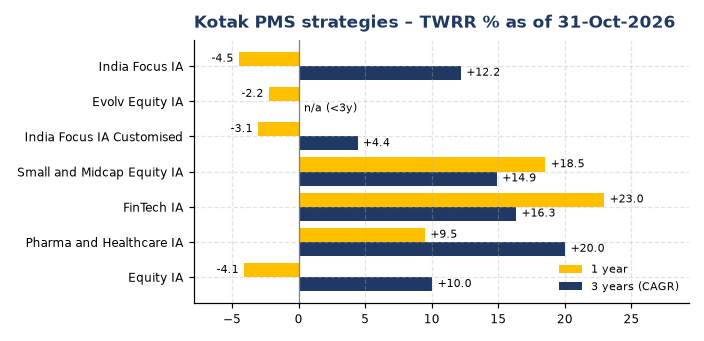
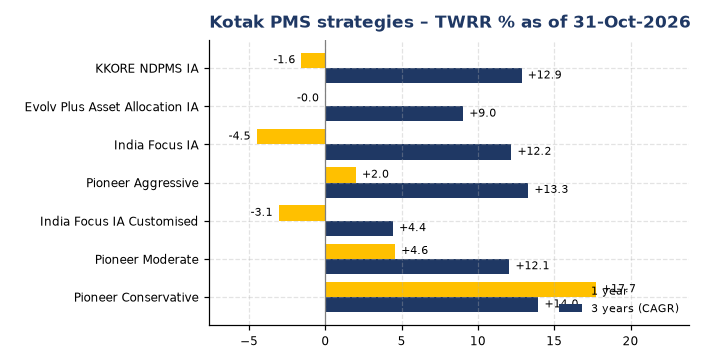
Latest snapshot: PMS Sep-26 league + peer block

Changed region(s): [[0.0312, 0.1173, 1.0, 0.9677], [0.25, 0.0293, 1.0, 0.088]]

diff --git a/latest.html b/latest.html
@@ -29,11 +29,11 @@ tr.kotak td{background:#FFF1F1;font-weight:700}tr.tot td{font-weight:800;border-
 .callout{background:#FFF8E1;border-left:5px solid #FFC000;border-radius:8px;padding:10px 14px;font-size:13.5px;margin-top:12px}
 .gaps{background:#fff;border-left:5px solid #2E75B6;border-radius:10px;padding:12px 18px;font-size:13px;margin-top:22px}.gaps li{margin:4px 0}
 footer{font-size:12px;color:#666;text-align:center;padding:4px 16px 24px}
-@page{size:A3 landscape;margin:8mm}html,body{-webkit-print-color-adjust:exact;print-color-adjust:exact}@media print{nav.topnav{position:static;box-shadow:none}.kpis,.gaps,.card{break-inside:avoid}h2.sec{break-after:avoid}}</style></head><body><nav class="topnav" aria-label="Dashboards"><a class="home" href="index.html">&#8962; Full AMFI hub</a><a class="pill" href="main_dashboard.html">Main MF dashboard</a><a class="pill" href="pms/">PMS (APMI) hub</a><a class="pill" href="pms/kotak.html">Kotak PMS</a><a class="pill" href="direct_bifurcation.html">Direct plans</a><a class="pill" href="amc_league.html">AMC league</a><span class="sp"></span><a class="pill cur" href="latest.html" aria-current="page">Latest snapshot</a></nav>
+@page{size:A3 landscape;margin:8mm}html,body{-webkit-print-color-adjust:exact;print-color-adjust:exact}@media print{nav.topnav{position:static;box-shadow:none}.kpis,.gaps,.card{break-inside:avoid}h2.sec{break-after:avoid}}</style></head><body><nav class="topnav" aria-label="Dashboards"><a class="home" href="index.html">&#8962; Full AMFI hub</a><a class="pill" href="main_dashboard.html">Main MF dashboard</a><a class="pill" href="pms/">PMS (APMI) hub</a><a class="pill" href="pms/kotak.html">Kotak PMS</a><a class="pill" href="pms/peers.html">PMS peer set</a><a class="pill" href="direct_bifurcation.html">Direct plans</a><a class="pill" href="amc_league.html">AMC league</a><span class="sp"></span><a class="pill cur" href="latest.html" aria-current="page">Latest snapshot</a></nav>
 <header><h1>Latest snapshot: Mutual funds &amp; PMS on one page</h1>
 <div class="sub">MF data to Oct-26 (AMFI) · Kotak AMC share to Jul-Sep 2026 · Direct plans to Oct-26 · PMS industry to Sep-26 (APMI/SEBI) · PMS league to Mar-26 · Kotak PMS returns to 31-Oct-2026</div></header>
 <div class="wrap">
-<div class="kpis"><div class="kpi"><div class="kl">MF industry AUM</div><div class="kv">₹83.39 L cr</div><div class="kc"><span class="chg up">+₹0.75 L cr</span> <span class="vs">vs Sep-26 (+0.9%)</span></div><div class="ks">Month-end, Oct-26 · AMFI</div></div><div class="kpi"><div class="kl">MF net flows</div><div class="kv">+₹1,73,840 cr</div><div class="kc"><span class="vs">Sep-26: −₹1,33,376 cr</span></div><div class="ks">All schemes, Oct-26 · AMFI</div></div><div class="kpi"><div class="kl">Equity net inflow</div><div class="kv">₹32,994 cr</div><div class="kc"><span class="chg dn">−₹5,313 cr</span> <span class="vs">(-14%)</span></div><div class="ks">Open-ended equity, Oct-26</div></div><div class="kpi"><div class="kl">SIP contribution <span class="flag">PRESS</span></div><div class="kv">₹32,160 cr</div><div class="kc"><span class="chg dn">−₹330 cr</span> <span class="vs">vs Sep-26</span></div><div class="ks">Oct-26 · press-sourced</div></div><div class="kpi"><div class="kl">Kotak AMC share</div><div class="kv">7.04% · #5</div><div class="kc"><span class="chg dn">-0.06 pp</span> <span class="vs">rank <span class="chg flat">no change</span></span></div><div class="ks">QAAUM Jul-Sep 2026 · AMFI</div></div><div class="kpi"><div class="kl">PMS industry AUM</div><div class="kv">₹44.46 L cr</div><div class="kc"><span class="chg up">+₹0.12 L cr</span> <span class="vs">vs Aug-26 (+0.3%)</span></div><div class="ks">Sep-26 · APMI/SEBI · 72% EPFO/PF</div></div><div class="kpi"><div class="kl">Kotak PMS</div><div class="kv">#5 · ₹45,807 cr</div><div class="kc"><span class="chg dn">−₹7,167 cr</span> <span class="vs">vs Dec-25 (rank #5)</span></div><div class="ks">Mar-26 · APMI PMS-level · 1,469 clients</div></div></div>
+<div class="kpis"><div class="kpi"><div class="kl">MF industry AUM</div><div class="kv">₹83.39 L cr</div><div class="kc"><span class="chg up">+₹0.75 L cr</span> <span class="vs">vs Sep-26 (+0.9%)</span></div><div class="ks">Month-end, Oct-26 · AMFI</div></div><div class="kpi"><div class="kl">MF net flows</div><div class="kv">+₹1,73,840 cr</div><div class="kc"><span class="vs">Sep-26: −₹1,33,376 cr</span></div><div class="ks">All schemes, Oct-26 · AMFI</div></div><div class="kpi"><div class="kl">Equity net inflow</div><div class="kv">₹32,994 cr</div><div class="kc"><span class="chg dn">−₹5,313 cr</span> <span class="vs">(-14%)</span></div><div class="ks">Open-ended equity, Oct-26</div></div><div class="kpi"><div class="kl">SIP contribution <span class="flag">PRESS</span></div><div class="kv">₹32,160 cr</div><div class="kc"><span class="chg dn">−₹330 cr</span> <span class="vs">vs Sep-26</span></div><div class="ks">Oct-26 · press-sourced</div></div><div class="kpi"><div class="kl">Kotak AMC share</div><div class="kv">7.04% · #5</div><div class="kc"><span class="chg dn">-0.06 pp</span> <span class="vs">rank <span class="chg flat">no change</span></span></div><div class="ks">QAAUM Jul-Sep 2026 · AMFI</div></div><div class="kpi"><div class="kl">PMS industry AUM</div><div class="kv">₹44.46 L cr</div><div class="kc"><span class="chg up">+₹0.12 L cr</span> <span class="vs">vs Aug-26 (+0.3%)</span></div><div class="ks">Sep-26 · APMI/SEBI · 72% EPFO/PF</div></div><div class="kpi"><div class="kl">Kotak PMS</div><div class="kv">#7 · ₹44,834 cr</div><div class="kc"><span class="chg dn">−₹3,278 cr</span> <span class="vs">vs Jun-26 (rank #8)</span></div><div class="ks">Sep-26 · APMI PMS-level · 1,511 clients</div></div></div>
 
 <h2 class="sec">Mutual funds – Oct-26 vs Sep-26 <a href="main_dashboard.html">Open main MF dashboard &rsaquo;</a></h2>
 <div class="g2">
@@ -71,19 +71,28 @@ footer{font-size:12px;color:#666;text-align:center;padding:4px 16px 24px}
 <div class="card"><h3>PMS AUM trend by service type</h3><img src="charts/latest_pms_segments.png" alt="PMS AUM by segment"><div class=src>Source: APMI. Discretionary is dominated by EPFO/PF mandates.</div></div>
 </div>
 <div class="g2" style="margin-top:16px">
-<div class="card"><h3>PMS league – top 8 by AUM (Mar-26, Kotak highlighted)</h3><table><tr><th class="n">#</th><th>Portfolio manager</th><th class="n">AUM Dec-25</th><th class="n">AUM Mar-26</th><th class="n">QoQ</th><th class="n">Clients</th></tr><tr><td class="n">1</td><td>Sbi Funds Management Limited</td><td class="n">₹16,22,385 cr</td><td class="n b">₹16,46,202 cr</td><td class="n">+1.5%</td><td class="n">1,656</td></tr><tr><td class="n">2</td><td>Uti Asset Management Company Pvt Ltd</td><td class="n">₹14,90,600 cr</td><td class="n b">₹15,31,939 cr</td><td class="n">+2.8%</td><td class="n">4</td></tr><tr><td class="n">3</td><td>Darashaw &amp; Company Ltd</td><td class="n">₹1,46,691 cr</td><td class="n b">₹1,54,358 cr</td><td class="n">+5.2%</td><td class="n">258</td></tr><tr><td class="n">4</td><td>Nippon Life India Asset Management Limited</td><td class="n">₹88,218 cr</td><td class="n b">₹88,460 cr</td><td class="n">+0.3%</td><td class="n">1,004</td></tr><tr class=kotak><td class="n">5</td><td>Kotak Mahindra Asset Management Company Ltd</td><td class="n">₹52,974 cr</td><td class="n b">₹45,807 cr</td><td class="n">-13.5%</td><td class="n">1,469</td></tr><tr><td class="n">6</td><td>Enam Asset Management Co.Pvt.Ltd</td><td class="n">₹43,879 cr</td><td class="n b">₹36,976 cr</td><td class="n">-15.7%</td><td class="n">1,534</td></tr><tr><td class="n">7</td><td>360 One Portfolio Managers Limited</td><td class="n">₹36,737 cr</td><td class="n b">₹34,177 cr</td><td class="n">-7.0%</td><td class="n">2,091</td></tr><tr><td class="n">8</td><td>Birla Sun Life Asset Management Company Limited</td><td class="n">₹30,245 cr</td><td class="n b">₹32,067 cr</td><td class="n">+6.0%</td><td class="n">2,513</td></tr></table><div class="callout"><b>Kotak PMS:</b> #5 at ₹45,807 cr and 1,469 clients in Mar-26, vs ₹52,974 cr and 1,523 clients in Dec-25 (rank #5).</div><div class=src>Source: APMI "AUM &amp; client count – PMS level" FY2025-26 (latest quarter Mar-26). Top two are EPFO mandates.</div></div>
+<div class="card"><h3>PMS league – top 8 by AUM (Sep-26, Kotak highlighted)</h3><table><tr><th class="n">#</th><th>Portfolio manager</th><th class="n">AUM Jun-26</th><th class="n">AUM Sep-26</th><th class="n">QoQ</th><th class="n">Clients</th></tr><tr><td class="n">1</td><td>Sbi Funds Management Limited</td><td class="n">₹14,61,877 cr</td><td class="n b">₹12,96,482 cr</td><td class="n">-11.3%</td><td class="n">1,981</td></tr><tr><td class="n">2</td><td>Uti Asset Management Company Pvt Ltd</td><td class="n">₹12,15,162 cr</td><td class="n b">₹7,73,975 cr</td><td class="n">-36.3%</td><td class="n">4</td></tr><tr><td class="n">3</td><td>Hdfc Asset Management Company Limited</td><td class="n">₹12,175 cr</td><td class="n b">₹6,86,873 cr</td><td class="n">+5541.5%</td><td class="n">245</td></tr><tr><td class="n">4</td><td>Aditya Birla Sun Life Amc Limited</td><td class="n">₹6,41,364 cr</td><td class="n b">₹6,63,424 cr</td><td class="n">+3.4%</td><td class="n">2,546</td></tr><tr><td class="n">5</td><td>Darashaw &amp; Company Ltd</td><td class="n">₹1,40,377 cr</td><td class="n b">₹1,59,890 cr</td><td class="n">+13.9%</td><td class="n">252</td></tr><tr><td class="n">6</td><td>Nippon Life India Asset Management Limited</td><td class="n">₹91,287 cr</td><td class="n b">₹93,621 cr</td><td class="n">+2.6%</td><td class="n">875</td></tr><tr class=kotak><td class="n">7</td><td>Kotak Mahindra Asset Management Company Ltd</td><td class="n">₹48,113 cr</td><td class="n b">₹44,834 cr</td><td class="n">-6.8%</td><td class="n">1,511</td></tr><tr><td class="n">8</td><td>Enam Asset Management Co.Pvt.Ltd</td><td class="n">₹42,465 cr</td><td class="n b">₹42,000 cr</td><td class="n">-1.1%</td><td class="n">1,499</td></tr></table><div class="callout"><b>Kotak PMS:</b> #7 at ₹44,834 cr and 1,511 clients in Sep-26, vs ₹48,113 cr and 1,486 clients in Jun-26 (rank #8). #3 excluding EPFO-linked SBI/UTI/ABSL/HDFC.</div><div class=src>Source: APMI "AUM &amp; client count – PMS level" FY2026-27 (latest quarter Sep-26). SBI, UTI, HDFC and ABSL are dominated by EPFO/PF mandates.</div></div>
 <div class="card"><h3>Kotak PMS strategy returns</h3><img src="charts/latest_kotak_pms_strategies.png" alt="Kotak PMS strategies"><div class=src>Source: APMI IA performance (IaInsight) pages; TWRR as of 31-Oct-2026; 3y/5y annualised. Strategy AUM is as reported to APMI.</div></div>
 </div>
 <div class="card" style="margin-top:16px"><h3>Kotak PMS strategies – detail (TWRR %, as of 31-Oct-2026)</h3>
-<table><tr><th>Investment approach</th><th class="n">AUM</th><th class="n">1M</th><th class="n">1Y</th><th class="n">3Y</th><th class="n">5Y</th><th class="n">Since inception</th></tr><tr><td>Kotak India Focus Portfolio Investment Approach</td><td class="n">₹766 cr</td><td class="n">-4.67%</td><td class="n">-4.50%</td><td class="n">+12.19%</td><td class="n">+10.25%</td><td class="n">+14.00%</td></tr><tr><td>Kotak Evolv Equity Investment Approach</td><td class="n">₹47.74 cr</td><td class="n">-6.83%</td><td class="n">-2.25%</td><td class="n">n/a</td><td class="n">n/a</td><td class="n">+0.57%</td></tr><tr><td>Kotak India Focus Portfolio Investment Approach Customised</td><td class="n">₹46.64 cr</td><td class="n">-2.85%</td><td class="n">-3.06%</td><td class="n">+4.43%</td><td class="n">+7.04%</td><td class="n">+7.95%</td></tr><tr><td>Kotak Small and Midcap Equity Investment Approach</td><td class="n">₹38.78 cr</td><td class="n">+3.14%</td><td class="n">+18.53%</td><td class="n">+14.89%</td><td class="n">+15.86%</td><td class="n">+15.77%</td></tr><tr><td>Kotak FinTech Investment Approach</td><td class="n">₹15.36 cr</td><td class="n">-0.09%</td><td class="n">+22.96%</td><td class="n">+16.34%</td><td class="n">+12.99%</td><td class="n">+13.54%</td></tr><tr><td>Kotak Pharma and Healthcare Investment Approach</td><td class="n">₹13.27 cr</td><td class="n">+6.87%</td><td class="n">+9.49%</td><td class="n">+20.03%</td><td class="n">+13.47%</td><td class="n">+12.14%</td></tr><tr><td>Kotak Equity Portfolio Investment Approach</td><td class="n">₹0.93 cr</td><td class="n">-3.27%</td><td class="n">-4.11%</td><td class="n">+10.04%</td><td class="n">n/a</td><td class="n">+11.97%</td></tr></table>
-<div class="src">Source: APMI IaInsight pages (IAIDs 553, 1674, 565, 561, 567, 558, 569). n/a = strategy younger than the period.</div></div>
+<table><tr><th>Investment approach</th><th class="n">AUM</th><th class="n">1M</th><th class="n">1Y</th><th class="n">3Y</th><th class="n">5Y</th><th class="n">Since inception</th></tr><tr><td>Kotak KKORE NDPMS Investment Approach</td><td class="n">₹4,378 cr</td><td class="n">-2.10%</td><td class="n">-1.57%</td><td class="n">+12.86%</td><td class="n">+10.12%</td><td class="n">+12.59%</td></tr><tr><td>Kotak Evolv Plus Asset Allocation Investment Approach</td><td class="n">₹985 cr</td><td class="n">-1.17%</td><td class="n">-0.02%</td><td class="n">+9.03%</td><td class="n">n/a</td><td class="n">+8.39%</td></tr><tr><td>Kotak India Focus Portfolio Investment Approach</td><td class="n">₹766 cr</td><td class="n">-4.67%</td><td class="n">-4.50%</td><td class="n">+12.19%</td><td class="n">+10.25%</td><td class="n">+14.00%</td></tr><tr><td>Kotak Evolv Multi Asset NDPMS Investment Approach</td><td class="n">₹557 cr</td><td class="n">-3.04%</td><td class="n">n/a</td><td class="n">n/a</td><td class="n">n/a</td><td class="n">-2.73%</td></tr><tr><td>Kotak Pioneer Model Strategy Investment Approach Aggressive</td><td class="n">₹119 cr</td><td class="n">-2.52%</td><td class="n">+2.00%</td><td class="n">+13.30%</td><td class="n">n/a</td><td class="n">+12.95%</td></tr><tr><td>Kotak India Focus Portfolio Investment Approach Customised</td><td class="n">₹46.64 cr</td><td class="n">-2.85%</td><td class="n">-3.06%</td><td class="n">+4.43%</td><td class="n">+7.04%</td><td class="n">+7.95%</td></tr><tr><td>Kotak Pioneer Model Strategy Investment Approach Moderate</td><td class="n">₹30.09 cr</td><td class="n">-1.69%</td><td class="n">+4.57%</td><td class="n">+12.06%</td><td class="n">n/a</td><td class="n">+11.32%</td></tr><tr><td>Kotak Pioneer Model Strategy Investment Approach Conservative</td><td class="n">₹13.80 cr</td><td class="n">-0.87%</td><td class="n">+17.73%</td><td class="n">+13.96%</td><td class="n">n/a</td><td class="n">+11.95%</td></tr><tr><td>Kotak Evolv Liquid Investment Approach</td><td class="n">₹8.31 cr</td><td class="n">+0.50%</td><td class="n">+5.84%</td><td class="n">+6.48%</td><td class="n">n/a</td><td class="n">+6.58%</td></tr><tr><td>Kotak Evolv Equity NDPMS Investment Approach</td><td class="n">₹7.58 cr</td><td class="n">+0.06%</td><td class="n">n/a</td><td class="n">n/a</td><td class="n">n/a</td><td class="n">+1.01%</td></tr><tr><td>Kotak Evolv Liquid NDPMS Investment Approach</td><td class="n">₹4.94 cr</td><td class="n">+0.48%</td><td class="n">n/a</td><td class="n">n/a</td><td class="n">n/a</td><td class="n">+2.09%</td></tr><tr><td>Kotak Liquid Investment Approach</td><td class="n">₹1.87 cr</td><td class="n">+0.45%</td><td class="n">+5.95%</td><td class="n">+6.44%</td><td class="n">n/a</td><td class="n">+6.49%</td></tr><tr><td>Kotak Equity Portfolio Investment Approach</td><td class="n">₹0.93 cr</td><td class="n">-3.27%</td><td class="n">-4.11%</td><td class="n">+10.04%</td><td class="n">n/a</td><td class="n">+11.97%</td></tr></table>
+<div class="src">Source: APMI IA performance table, as on 31-Oct-2026 (all 13 Kotak IAs). n/a = not reported / strategy younger than the period.</div></div>
+<div class="g2" style="margin-top:16px">
+<div class="card"><h3>PMS peer set – strategy AUM (Oct-26) vs aggregate AUM (Sep-26)</h3>
+<table><tr><th>Brand</th><th class="n">Strategy AUM Oct-26</th><th class="n"># IAs</th><th class="n">Aggregate AUM Sep-26</th><th class="n">Clients</th></tr><tr><td>360 ONE</td><td class="n">₹57,675 cr</td><td class="n">44</td><td class="n">₹64,840 cr</td><td class="n">6,824</td></tr><tr><td>Enam</td><td class="n">₹34,616 cr</td><td class="n">7</td><td class="n">₹42,000 cr</td><td class="n">1,499</td></tr><tr><td>ICICI Prudential AMC</td><td class="n">₹29,148 cr</td><td class="n">27</td><td class="n">₹30,145 cr</td><td class="n">30,807</td></tr><tr><td>Motilal Oswal</td><td class="n">₹21,880 cr</td><td class="n">47</td><td class="n">₹23,519 cr</td><td class="n">14,252</td></tr><tr><td>Abakkus</td><td class="n">₹21,485 cr</td><td class="n">16</td><td class="n">₹22,333 cr</td><td class="n">12,173</td></tr><tr><td>Valuequest</td><td class="n">₹17,854 cr</td><td class="n">5</td><td class="n">₹19,285 cr</td><td class="n">1,824</td></tr><tr><td>Quantum</td><td class="n">₹16,125 cr</td><td class="n">12</td><td class="n">₹15,918 cr</td><td class="n">14</td></tr><tr><td>Axis AMC</td><td class="n">₹15,150 cr</td><td class="n">26</td><td class="n">₹15,297 cr</td><td class="n">3,750</td></tr><tr><td>Unifi</td><td class="n">₹14,817 cr</td><td class="n">16</td><td class="n">₹15,863 cr</td><td class="n">7,689</td></tr><tr><td>ASK</td><td class="n">₹14,191 cr</td><td class="n">39</td><td class="n">₹14,960 cr</td><td class="n">6,968</td></tr><tr class=kotak><td>Kotak Mahindra AMC</td><td class="n">₹6,918 cr</td><td class="n">13</td><td class="n">₹44,834 cr</td><td class="n">1,511</td></tr></table>
+<div class="callout"><b>Kotak:</b> #21 of 381 PMS by strategy AUM (₹6,918 cr, 13 IAs); #7 by APMI aggregate AUM incl. advisory/mandates.</div>
+<div class="src">Source: APMI Insights (Oct-2026); APMI PMS-level FY26-27 (30-Sep-2026). Top 10 of 20 named peers by strategy AUM. <a href="pms/peers.html">Full peer set &rsaquo;</a></div></div>
+<div class="card"><h3>Kotak strategies vs APMI category peers (31-Oct-2026)</h3>
+<table><tr><th>Kotak IA · category</th><th class="n">AUM</th><th class="n">1Y</th><th class="n">3Y</th><th class="n">5Y</th></tr><tr><td style="min-width:230px">KKORE NDPMS<div class=vs>Equity NDPMS · BSE 500 TRI · N=67</div></td><td class="n">₹4,378 cr</td><td class="n"><b>-1.57%</b><br><span class=vs>#19/53<br>med -3.41%</span></td><td class="n"><b>+12.86%</b><br><span class=vs>#9/35<br>med +8.99%</span></td><td class="n"><b>+10.12%</b><br><span class=vs>#5/20<br>med +7.55%</span></td></tr><tr><td style="min-width:230px">Evolv Plus Asset Allocation<div class=vs>Multi Asset DPMS · NSE Multi Asset Index 1 · N=63</div></td><td class="n">₹985 cr</td><td class="n"><b>-0.02%</b><br><span class=vs>#20/51<br>med -1.12%</span></td><td class="n"><b>+9.03%</b><br><span class=vs>#29/37<br>med +10.54%</span></td><td class="n">—</td></tr><tr><td style="min-width:230px">India Focus Portfolio<div class=vs>Equity DPMS · Nifty 50 TRI · N=360</div></td><td class="n">₹766 cr</td><td class="n"><b>-4.50%</b><br><span class=vs>#145/315<br>med -4.73%</span></td><td class="n"><b>+12.19%</b><br><span class=vs>#44/222<br>med +8.37%</span></td><td class="n"><b>+10.25%</b><br><span class=vs>#39/167<br>med +7.21%</span></td></tr><tr><td style="min-width:230px">Pioneer Model Strategy Aggressive<div class=vs>Multi Asset DPMS · NSE Multi Asset Index 1 · N=63</div></td><td class="n">₹119 cr</td><td class="n"><b>+2.00%</b><br><span class=vs>#12/51<br>med -1.12%</span></td><td class="n"><b>+13.30%</b><br><span class=vs>#8/37<br>med +10.54%</span></td><td class="n">—</td></tr></table>
+<div class="src">Rank = position among IAs in the same APMI strategy type, service type and benchmark; med = category median. TWRR, &gt;1Y annualised. Source: APMI IA performance table. <a href="pms/peers.html">All periods &amp; peers &rsaquo;</a></div></div>
+</div>
 
 <div class="gaps"><b>Gaps &amp; caveats</b><ul>
 <li><b>SIP Oct-26</b> is from press reports; AMFI's Monthly Note (SIP AUM, accounts, registrations) for Oct-26 is not yet published.</li>
-<li>AMC market share is quarterly (latest Jul-Sep 2026); the PMS league is quarterly with a lag (latest Mar-26).</li>
-<li>PMS net flows are not published by APMI/SEBI as a series, so the PMS section shows AUM and client changes, which include market movement.</li>
-<li>PMS industry data is to Sep-26; October 2026 APMI/SEBI figures were not yet available when this was built.</li>
+<li>AMC market share is quarterly (latest Jul-Sep 2026); the PMS league is quarterly with a lag (latest Sep-26).</li>
+<li>PMS net flows come from APMI's monthly Industry Compendium (latest September 2026: total net +₹8,924 cr, discretionary ex-EPFO +₹3,224 cr), shown on the PMS overview page.</li>
+<li>PMS industry AUM/clients are to Sep-26. APMI's industry AUM file, SEBI's October report and the October compendium were not out at build time. October strategy returns and strategy AUM (APMI IA performance/Insights) are used.</li>
 </ul></div>
 </div>
-<footer>Built 20-Nov-2026 10:56 IST for Hasnain · Kotak AMC distribution view · All figures from AMFI, APMI and SEBI publications; ₹ crore unless stated (L cr = lakh crore). Regenerate: site_tools/build_latest.py</footer>
+<footer>Built 20-Nov-2026 11:35 IST for Hasnain · Kotak AMC distribution view · All figures from AMFI, APMI and SEBI publications; ₹ crore unless stated (L cr = lakh crore). Regenerate: site_tools/build_latest.py</footer>
 </body></html>

diff --git a/index.html b/index.html
@@ -33,7 +33,7 @@ footer{font-size:12px;color:#666;text-align:center;padding:0 16px 24px}
 .ql .t{display:block;font-size:21px;font-weight:800}.ql .d{display:block;font-size:14px;opacity:.95;margin-top:4px}
 .ql .b{flex:0 0 auto;background:#fff;color:#1F3864;font-weight:800;font-size:16px;padding:12px 20px;border-radius:26px}.ql a:hover .b{text-decoration:underline}</style>
 <div class="ql"><a class="lt" href="latest.html"><span><span class="t">&#9889; Latest snapshot – MF + PMS on one page</span><span class="d">Headline KPIs and changes: MF Oct-26, Kotak share Jul-Sep 2026, direct plans Oct-26, PMS Sep-26</span></span><span class="b">Open snapshot &rsaquo;</span></a>
-<a class="pm" href="pms/"><span><span class="t">APMI PMS Industry Dashboard</span><span class="d">AUM, clients, asset mix, league table &amp; Kotak PMS</span></span><span class="b">Open PMS &rsaquo;</span></a></div><!--/quicklinks-->
+<a class="pm" href="pms/"><span><span class="t">APMI PMS Industry Dashboard</span><span class="d">AUM, clients, flows, league table, Kotak PMS &amp; peer set</span></span><span class="b">Open PMS &rsaquo;</span></a></div><!--/quicklinks-->
 <div class="wrap">
 <a class="hero" href="main_dashboard.html"><span class="lbl">Start here</span><span class="ttl">Main AMFI dashboard – October 2026</span><span class="desc">Industry AUM and net flows, SIP and folios, category flows, AMC market share and distributors, all on one page.</span><span class="btn">Open main dashboard &rsaquo;</span></a>
 <h2>Detailed dashboards</h2>
